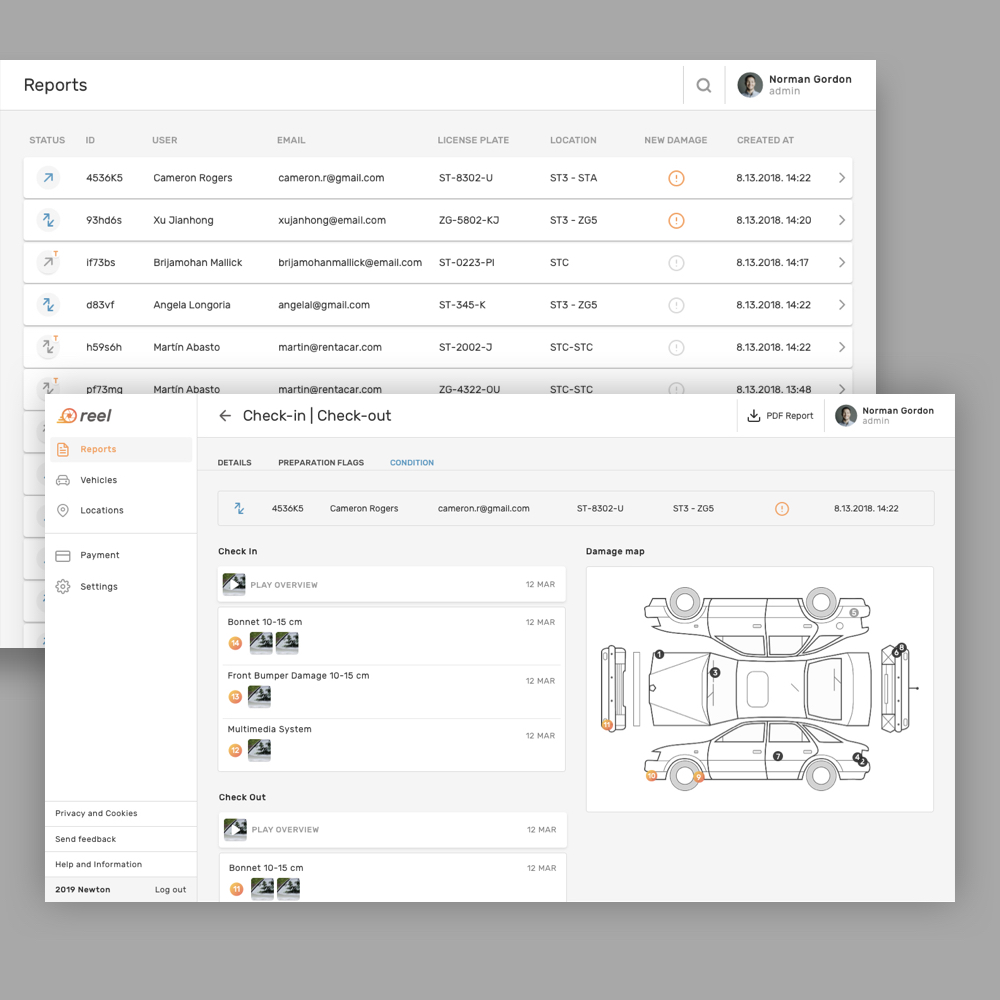
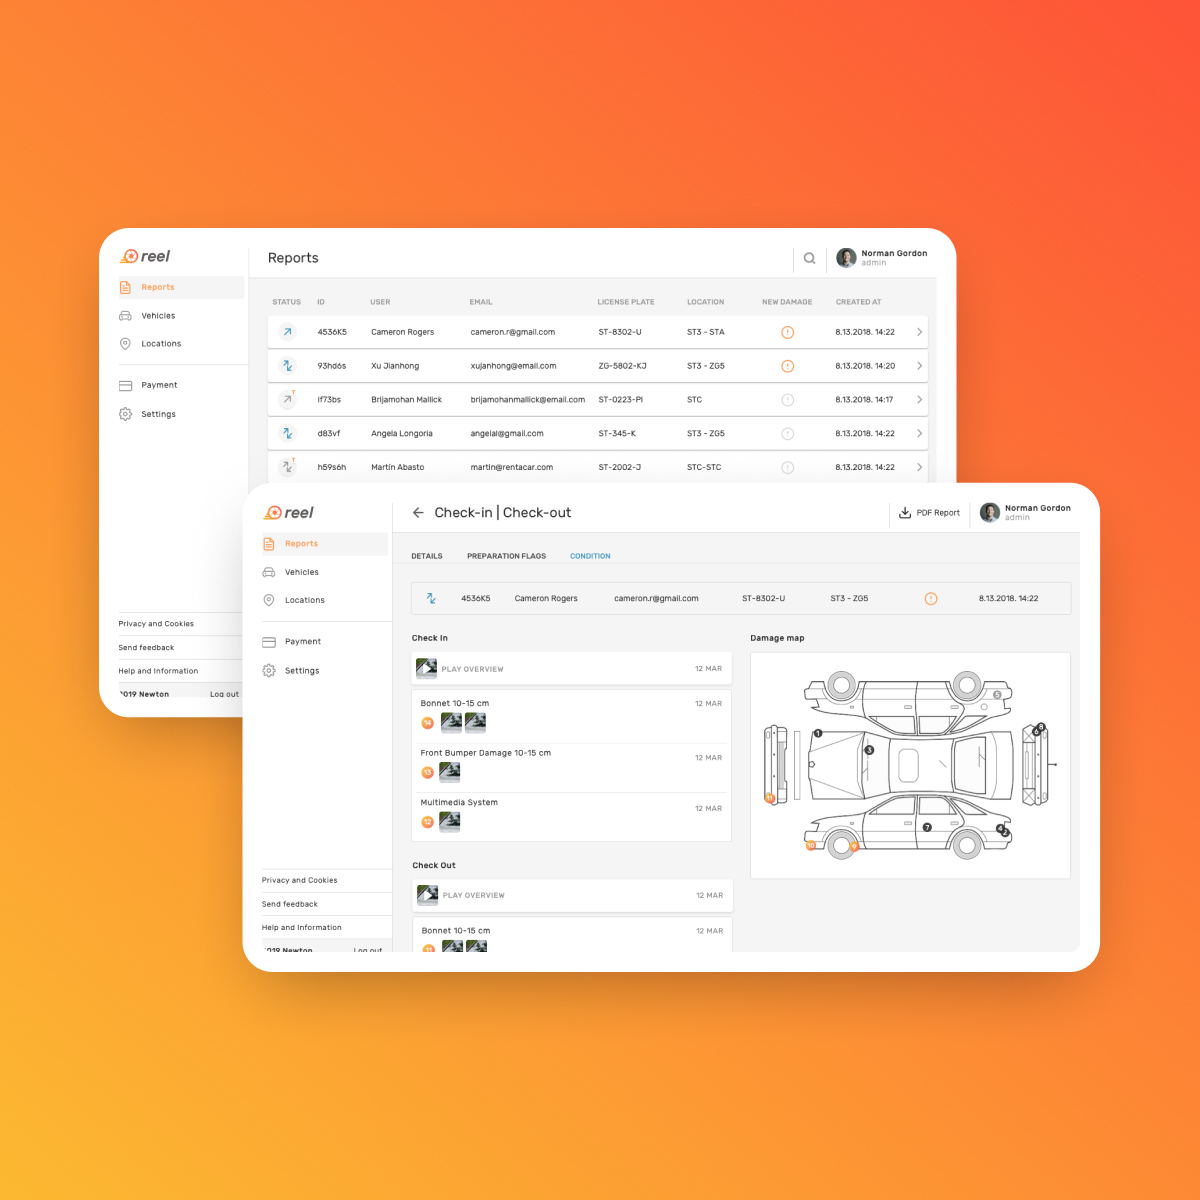
Replace old example images 🍱

diff --git a/assets/images/index.js b/assets/images/index.js
@@ -24,7 +24,7 @@ export default {
   },
   reel_app: {
     placeholder: require('./reel-app-placeholder.jpg').default,
-    src: require('./reel-app.jpg').default,
+    src: require('./reel-mobile-app.jpg').default,
     alt: 'Reel app'
   },
   reel_back_office: {
@@ -32,7 +32,6 @@ export default {
     alt: 'Reel back office'
   },
   reel_logo: {
-    placeholder: require('./reel-logo-placeholder.jpg').default,
     src: require('./reel-logo.jpg').default,
     alt: 'Reel logo'
   },
